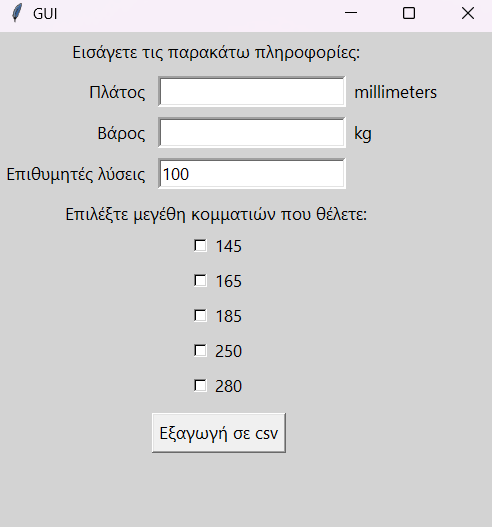
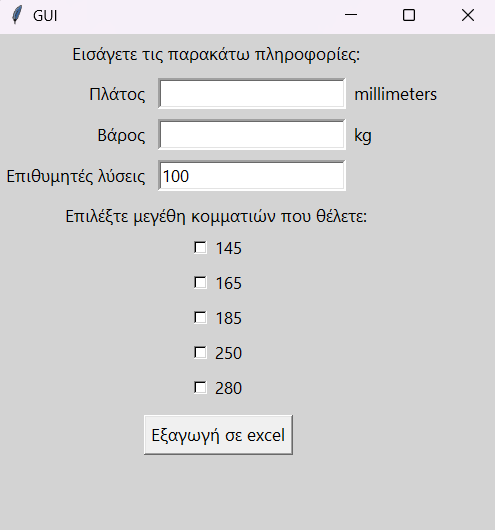
update gui image

diff --git a/app.py b/app.py
@@ -78,6 +78,6 @@ s280 = IntVar()
 Checkbutton(frame, width=10, text = '280', variable=s280, bg="lightgrey").grid(row=5)
 
 
-Button(root, text="Εξαγωγή σε csv", command=export).grid(row=5, column=1, columnspan=4, padx=5, pady=5)
+Button(root, text="Εξαγωγή σε excel", command=export).grid(row=5, column=1, columnspan=4, padx=5, pady=5)
 
 root.mainloop()
